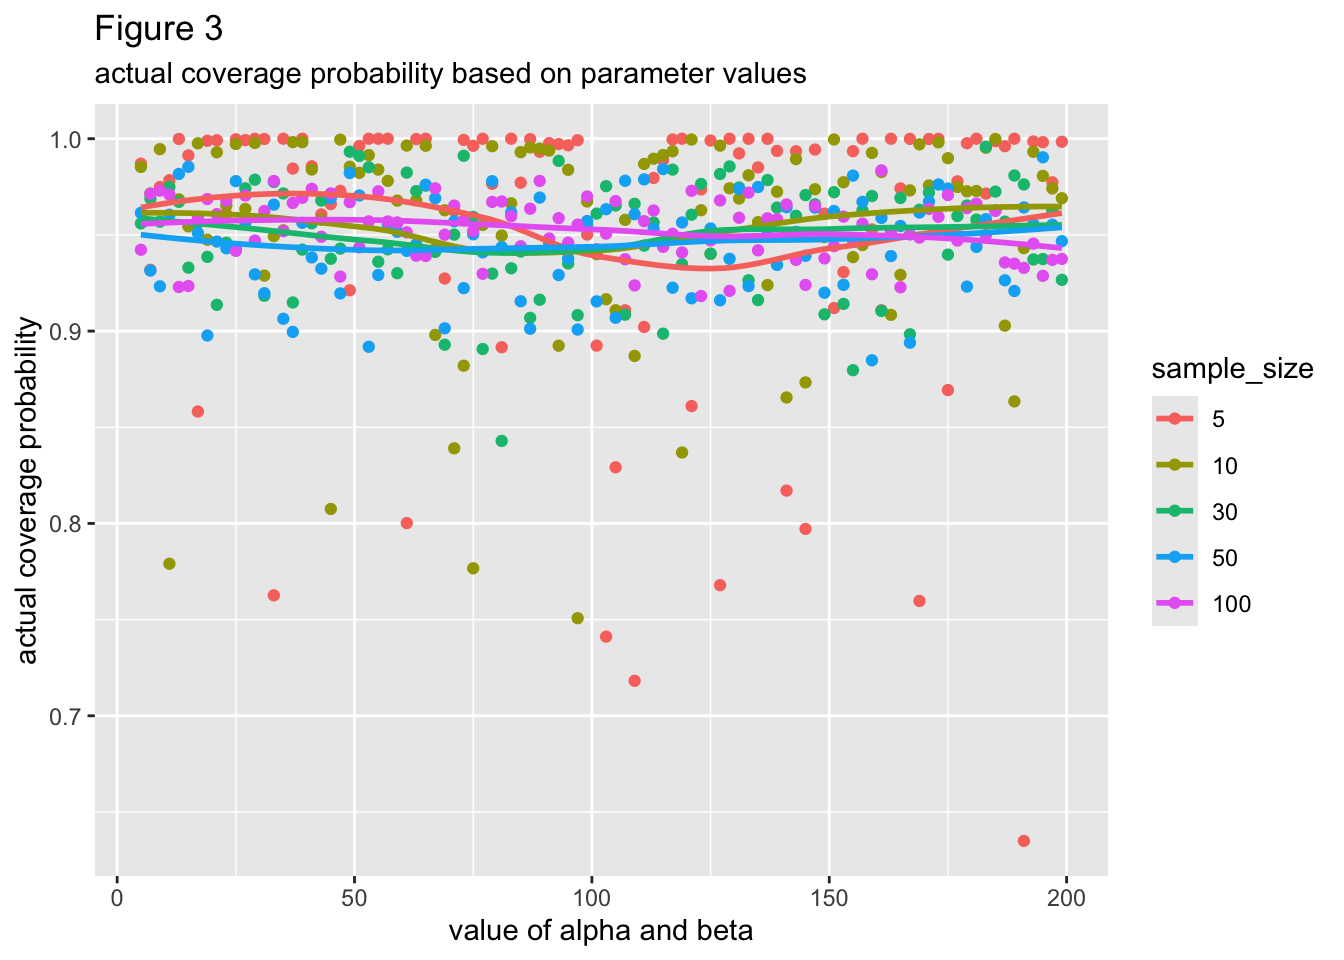
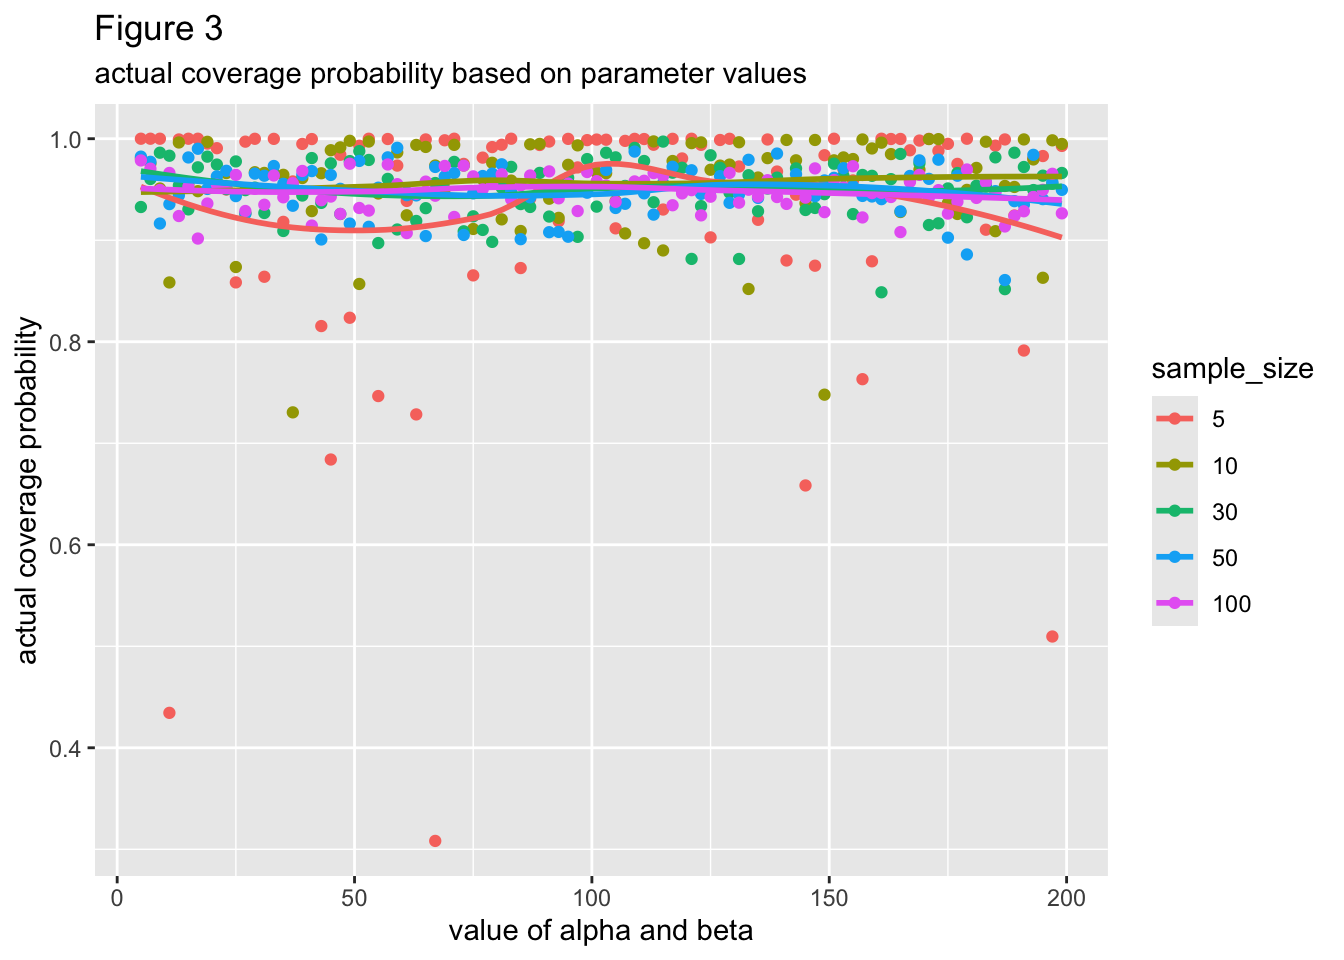
update

diff --git a/docs/Beta_Simulation.html b/docs/Beta_Simulation.html
@@ -334,16 +334,16 @@ window.Quarto = {
 <span id="cb6-3"><a href="#cb6-3" aria-hidden="true" tabindex="-1"></a>  <span class="fu">list_rbind</span>()</span></code><button title="Copy to Clipboard" class="code-copy-button"><i class="bi"></i></button></pre></div>
 <div class="cell-output cell-output-stdout">
 <pre><code>     n PI_percentage     lower     upper     cover alpha beta mean_in_interval
-1  287          0.95 0.4320472 0.5658431 0.9409680    99   99             TRUE
-2  384          0.95 0.4431242 0.5583510 0.9403341   133  133             TRUE
-3  104          0.95 0.4299449 0.5737146 0.9398074    85   85             TRUE
-4  454          0.95 0.4386899 0.5584506 0.9459789   129  129             TRUE
-5  236          0.95 0.4204316 0.5852396 0.9597102    77   77             TRUE
-6  467          0.95 0.4381863 0.5562264 0.9333191   121  121             TRUE
-7  407          0.95 0.4489150 0.5526836 0.9507509   179  179             TRUE
-8  439          0.95 0.3539634 0.6530654 0.9511699    21   21             TRUE
-9  310          0.95 0.4364903 0.5608845 0.9636654   141  141             TRUE
-10  21          0.95 0.4317991 0.5549590 0.9439955   125  125             TRUE</code></pre>
+1  357          0.95 0.4457512 0.5547652 0.9423670   151  151             TRUE
+2  357          0.95 0.4433420 0.5537099 0.9325472   137  137             TRUE
+3   40          0.95 0.4415610 0.5538898 0.9572484   163  163             TRUE
+4  436          0.95 0.4190097 0.5754651 0.9451883    75   75             TRUE
+5  157          0.95 0.4487068 0.5518046 0.9424366   169  169             TRUE
+6  318          0.95 0.4513836 0.5500713 0.9501931   197  197             TRUE
+7  157          0.95 0.4335248 0.5836436 0.9358856    79   79             TRUE
+8   73          0.95 0.2513034 0.7726544 0.9807267     9    9             TRUE
+9  239          0.95 0.4434540 0.5521630 0.9553812   171  171             TRUE
+10 130          0.95 0.4502374 0.5544324 0.9589186   193  193             TRUE</code></pre>
 </div>
 </div>
 <p>This is a random sample of rows from the actual dataset, which has 48902 rows and 8 columns. Each row corresponds to a simulated random sample of size n from a beta distribution with parameters alpha and beta. For each random sample, a normal prediction interval was generated with bounds “lower” and “upper”. “PI_percentage” refers to the intended coverage probability and “cover” refers to the actual coverage probability of said prediction interval over the beta distribution the data was generated from. “mean_in_interval” is a binary variable that states if the prediction interval covered the mean of the distribution.</p>

diff --git a/docs/Bayesian_Optimization_Bernoulli.html b/docs/Bayesian_Optimization_Bernoulli.html
@@ -332,9 +332,9 @@ window.Quarto = {
 <span id="cb3-34"><a href="#cb3-34" aria-hidden="true" tabindex="-1"></a><span class="fu">as.data.frame</span>(<span class="fu">cbind</span>(TS_mean_parameters, TS_standard_deviation, actual_parameters))</span></code><button title="Copy to Clipboard" class="code-copy-button"><i class="bi"></i></button></pre></div>
 <div class="cell-output cell-output-stdout">
 <pre><code>  TS_mean_parameters TS_standard_deviation actual_parameters
-1          0.8713001            0.03585801              0.81
-2          0.3862141            0.13449075              0.49
-3          0.3672734            0.12250560              0.37</code></pre>
+1          0.7875219            0.04369433              0.81
+2          0.4019996            0.13088121              0.49
+3          0.3911400            0.11121416              0.37</code></pre>
 </div>
 </div>
 <p>I used Thomas Sampling 100 times, with each time involving 100 iterations. “TS_parameters” displays the means of all the values most likely to be a specific parameter. Each of these values was determined by both the posteriors produced at the 100th iteration of every Thomas sample and the squared error loss function. “TS_standard_deviation” displays the sample standard deviation of all these values. The standard deviations would most likely have lower absolute values if informative priors had been used. They were quite large for estimations of <span class="math inline">\(p = .49\)</span> and <span class="math inline">\(p=.37\)</span>, which would be problematic if only one Thomas Sample with <span class="math inline">\(100\)</span> observations had been used. Thomas Sampling at this sample size might result in more stable estimates with informative priors.</p>

diff --git a/docs/data_viz.html b/docs/data_viz.html
@@ -213,15 +213,6 @@ ul.task-list li input[type="checkbox"] {
 <p><em>a world’s fair, also known as a universal exhibition or an expo, is a large global exhibition designed to showcase the achievements of nations. These exhibitions vary in character and are held in different parts of the world at a specific site for a period of time, typically between three and six months.</em></p>
 </blockquote>
 <p>Due to various factors, however, it is possible that world fairs might not be as representative of nations worldwide as their description and name would suggest. Ideally, as many nations as possible should be included in a world fair in order for it to be truly representative. As such, I track the number of countries that have attended world fairs from 1851 to 2021 to see how world fairs have evolved in terms of country representation.</p>
-<div class="cell">
-<div class="cell-output-display">
-<div>
-<figure class="figure">
-<p><img src="data_viz_files/figure-html/unnamed-chunk-3-1.png" class="img-fluid figure-img" alt="A scatter plot titled number of countries attending world fair based on year. Each point represents a specific world fair. The x-axis is year that fair started and the y-axis is number of countries attending. There is a line of best fit that trends upwards as year increases." width="672"></p>
-</figure>
-</div>
-</div>
-</div>
 <pre class="shinylive-r" data-engine="r"><code>#| '!! shinylive warning !!': |
 #|   shinylive does not work in self-contained HTML documents.
 #|   Please set `embed-resources: false` in your metadata.
